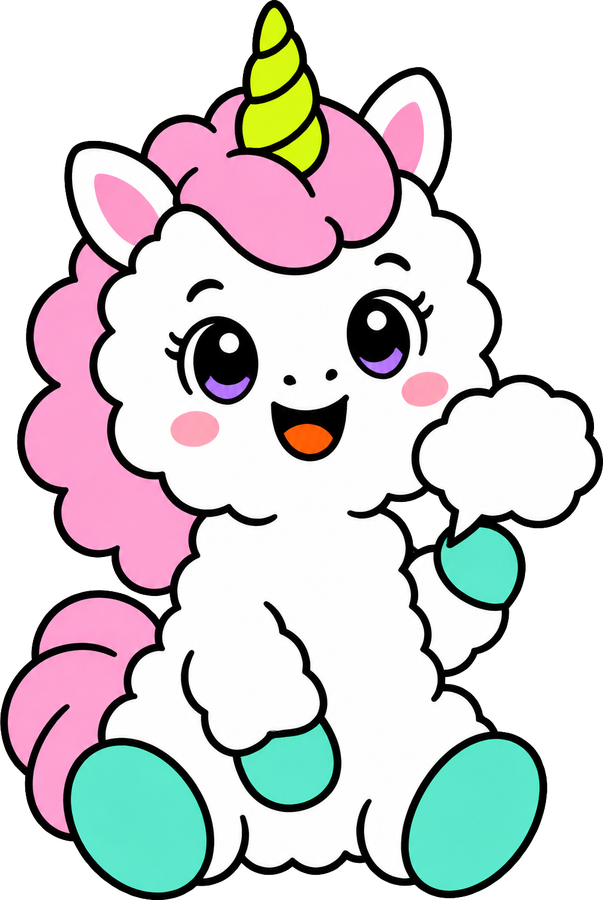
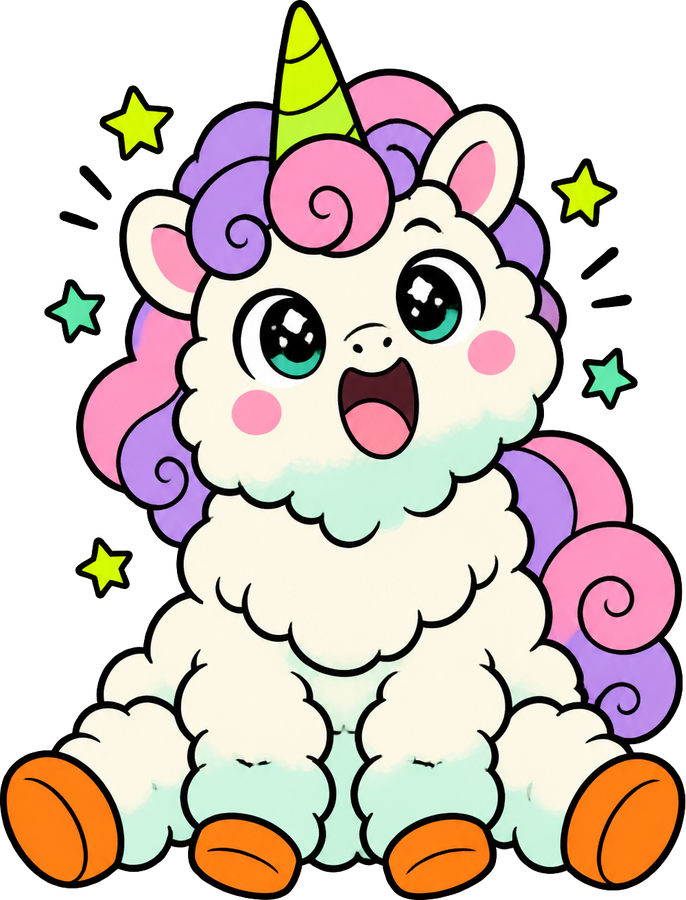
重画独角兽：身体内画出绒簇、两色平涂；摔坐姿势当主角，挥手版放加载页

diff --git a/index.html b/index.html
@@ -30,7 +30,7 @@ img{display:block}
 .loader{position:fixed;inset:0;z-index:100;background:var(--lime);background-image:inherit;display:flex;align-items:center;justify-content:center;transition:opacity .5s,visibility .5s}
 .loader.off{opacity:0;visibility:hidden}
 .loader .box{background:var(--cream);border:4px solid var(--ink);border-radius:28px;box-shadow:8px 8px 0 var(--ink);padding:28px 34px;display:flex;flex-direction:column;align-items:center;gap:16px;transform:rotate(-2deg)}
-.loader img{width:120px;animation:hop .7s ease-in-out infinite alternate}
+.loader img{width:110px;filter:drop-shadow(4px 4px 0 rgba(20,20,20,.85));animation:hop .7s ease-in-out infinite alternate}
 @keyframes hop{from{transform:translateY(0) rotate(-6deg)}to{transform:translateY(-16px) rotate(6deg)}}
 .loader .txt{font-family:var(--zh);font-size:24px}
 .loader .bar{width:240px;height:22px;border:3px solid var(--ink);border-radius:999px;background:#fff;overflow:hidden}
@@ -163,7 +163,7 @@ body .card.open,body .punchbox.shown{cursor:url("img/paw.svg") 6 6, auto}
 
 <div class="loader" id="loader">
   <div class="box">
-    <img src="img/uni4.png" alt="">
+    <img src="img/hero_wave.png" alt="">
     <div class="txt">石头搬运中…</div>
     <div class="bar"><i id="bar"></i></div>
   </div>

diff --git a/_gen/gen_png.py b/_gen/gen_png.py
@@ -26,8 +26,11 @@ item = d['data'][0]
 if item.get('b64_json'):
     open(out, 'wb').write(base64.b64decode(item['b64_json']))
 elif item.get('url'):
-    with urllib.request.urlopen(item['url'], timeout=300) as f:
-        open(out, 'wb').write(f.read())
+    rq = urllib.request.Request(item['url'], headers={'User-Agent': 'Mozilla/5.0 (Windows NT 10.0; Win64; x64) Chrome/130.0 Safari/537.36'})
+    with urllib.request.urlopen(rq, timeout=300) as f:
+        data = f.read()
+    with open(out, 'wb') as fh:
+        fh.write(data)
 else:
     raise SystemExit('no image: ' + json.dumps({k: v for k, v in item.items() if k != 'b64_json'})[:500])
 print('saved', out, f'{time.time() - t0:.0f}s')
